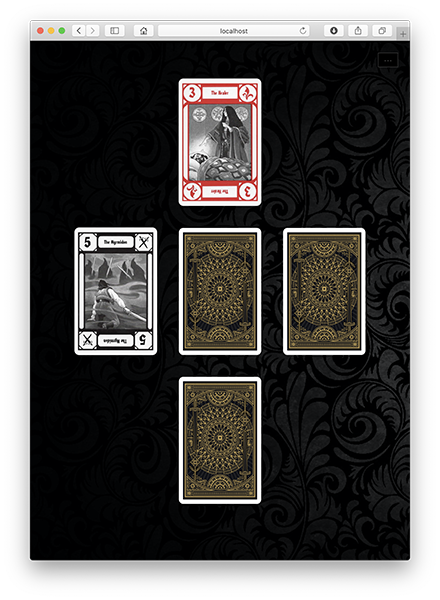
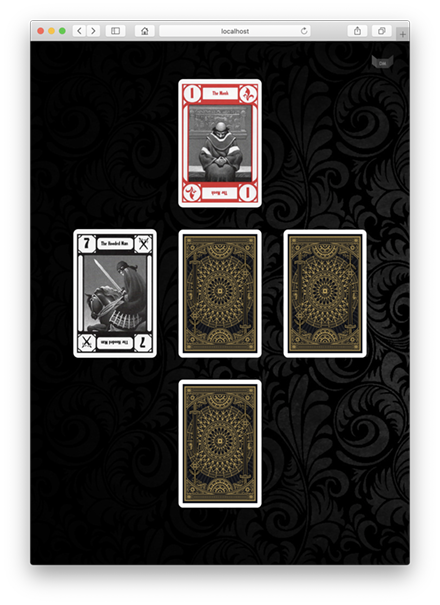
Update readme and screenshots

diff --git a/README.md b/README.md
@@ -2,13 +2,26 @@
 
 [See this in action at tarokka.com!](https://tarokka.com)
 
-This is randomized tarokka reading for your online Dungeons & Dragons game, implemented in TypeScript and React. Includes a 3D card effect and a Dungeon Master's guide in a separate tab, so you can present the card tab to players while reading the auto-generated notes.
+This is randomized tarokka reading for your online Dungeons & Dragons game, implemented in TypeScript and React. Open the Dungeon Master's view with the button at the top right. Refresh the player view for a new reading.
 
-The guide can be opened with the button at the top right. Refresh the main window for a new reading.
+The idea is that you can present the player view over your Google Meet or Zoom call while reading the auto-generated notes that are only visible to you, the Dungeon Master.
 
-Tarokka is the tarot equivalent in Barovia, the kingdom ruled by the immortal vampire Strahd from his home in Castle Ravenloft. See the Dungeons & Dragons fifth edition adventure *Curse of Strahd* for more information.
+***Warning:*** *It goes without saying, but the data file and Dungeon Master's view contain ***massive spoilers*** for players. A warning modal is displayed before opening the Dungeon Master's view.*
 
-***Warning:*** *It goes without saying, but the data file and Dungeon Master's guide contain ***massive spoilers*** for players. A warning modal is displayed before opening the guide.*
+## Features
+
+- Artwork from three decks:
+  - The original AD&D Forbidden Lore deck
+  - The fifth edition Gale Force Nine deck
+  - A colorized version of the Gale Force Nine deck
+  - (The third edition Sword & Sorcery deck is coming soon!)
+- Cards are revealed with a 3D effect
+- Any card can be removed from the deck entirely, to prevent awkward pacing issues with your campaign
+- Each card can be locked, to guarantee that card will always be the one revealed
+
+## What is tarokka?
+
+Tarokka is the tarot equivalent in Barovia, the kingdom ruled by the immortal vampire Strahd from his home in Castle Ravenloft. It's a nerd thing. See the Dungeons & Dragons fifth edition adventure [*Curse of Strahd*](https://smile.amazon.com/Curse-Strahd-Dungeons-Sourcebook-Supplement/dp/0786965983/) for more information.
 
 <img src="./assets/screenshot1.png" alt="Screenshot 1" width="300" height="409" /> <img src="./assets/screenshot2.png" alt="Screenshot 2" width="300" height="409" /> <img src="./assets/screenshot3.png" alt="Screenshot 3" width="300" height="409" />
 
@@ -24,4 +37,4 @@ In the project directory, you can run:
 
 ## Credits
 
-Thanks to [@pvrs12](https://github.com/pvrs12/tarokka) for the initial version of the data file.
+Thanks to [@pvrs12](https://github.com/pvrs12/tarokka) for the initial version of the data file and [Nefermais](https://www.reddit.com/user/Nefermais) for the colorized Gale Force Nine deck!
